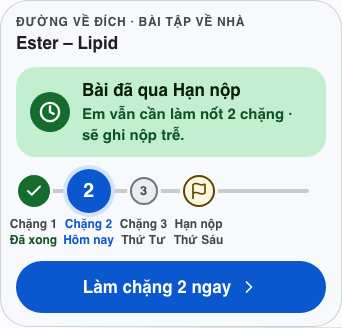
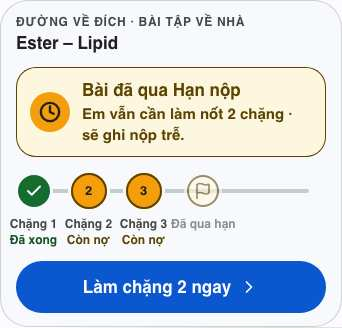
Nộp trễ ở máy em (Điều 4=B): thẻ 'Đã qua Hạn nộp' bấm được + 'em vẫn cần làm nốt N chặng · sẽ ghi nộp trễ' khi máy chủ báo quaHan (giữ 'nhờ Thầy gia hạn' khi máy chủ còn khoá); 2 sửa của Boss ở trạng thái quá hạn: khung CAM (không xanh lá), cờ 'Đã qua hạn' mờ, chặng chưa xong 'Còn nợ'. Test 22/22, đ

Changed region(s): [[0.0292, 0.1829, 0.9649, 0.7622], [0.5263, 0.5183, 0.6433, 0.6402]]

diff --git a/tests/ve-dich-the-2109.test.tsx b/tests/ve-dich-the-2109.test.tsx
@@ -211,6 +211,14 @@ describe('TheVeDich — bốn trạng thái + qua hạn', () => {
     fireEvent.click(screen.getByRole('button', { name: /Làm chặng 2 ngay/ }))
     expect(onLam).toHaveBeenCalledTimes(1)
     expect(container.textContent).not.toMatch(/nhờ Thầy gia hạn|lười|muộn rồi/i)
+    // Boss soát ảnh vd-tre: khung CAM (không xanh lá), cờ "Đã qua hạn" mờ, chặng chưa xong = "Còn nợ" (không "Hôm nay"/thứ)
+    expect(the.querySelector('[data-vung="nop-tre"]')!.classList.contains('vd-mung--luu-y')).toBe(true)
+    expect(the.querySelector('.vd-moc--dich')!.classList.contains('vd-moc--het')).toBe(true)
+    expect([...the.querySelectorAll('.vd-moc__ten')].pop()!.textContent).toBe('Đã qua hạn')
+    expect([...the.querySelectorAll('.vd-moc__tt')].map((m) => m.textContent)).toEqual(['Đã xong', 'Còn nợ', 'Còn nợ', ''])
+    expect([...the.querySelectorAll('.vd-moc')].map((m) => m.getAttribute('aria-label'))).toEqual(['Chặng 1: đã xong', 'Chặng 2: còn nợ', 'Chặng 3: còn nợ', 'Đích: đã qua hạn nộp'])
+    expect(container.textContent).not.toMatch(/Hôm nay|Thứ Sáu|Hạn nộp 12/)
+    expect(doc('src/components/bang-nhiem-vu/ve-dich.css')).toMatch(/\.vd-mung--luu-y \{[^}]*canh-bao-nen/)
   })
 
   it('nhiều bài: bài KHẨN NHẤT (hạn sớm nhất) là thẻ đầy đủ; bài khác một dòng (tối đa 3); chỉ nợ ôn (không bài) ⇒ chỉ khối ngày trước', () => {
@@ -289,5 +297,51 @@ describe('khoá nguồn', () => {
       expect(s, p).not.toMatch(/thần thú|khiên|Võ đài|lười/i)
     }
     expect(doc('src/components/bang-nhiem-vu/BangNhiemVu.tsx')).toMatch(/\{!laPh && duLieu\.veDich && !dangTai && \(/)
+  })
+})
+
+describe('NỘP TRỄ ở máy em (Điều 4 = B): thẻ "Đã qua Hạn nộp" không còn chặn khi máy chủ cho nộp', () => {
+  const NOW_T = Date.parse('2026-09-26T10:00:00+07:00')
+  const keHoachTre = (veDich: unknown): KeHoachNgayMayChu =>
+    ({
+      ok: true,
+      nganSach: { mucTieuCau: 12, toiThieuCau: 6, vanTocGiay: 78, vanTocNguon: 'do', ghiChuVanToc: '' },
+      viec: [],
+      canhBao: [],
+      quaHan: [{ loai: 'btvn', ma: 'B1', hanNop: '2026-09-25T05:00:00Z', conLai: 24 }],
+      tienBo: { daLamCau: 0, lenBac: 0, conThieu: 6 },
+      chuoiDat: 0,
+      lanNghi: false,
+      capNhatLuc: new Date(NOW_T - 60_000).toISOString(),
+      ...(veDich === undefined ? {} : { veDich, no: { theoNgay: [] } }),
+    }) as KeHoachNgayMayChu
+  const phu = { dsBtvn: [{ maBtvn: 'B1', maCa: 'CA-1', tenBtvn: 'Ester – Lipid', soCau: 12 }], dsMomGiao: [] as any[] }
+  const baiTre = (chang_: string[], quaHan = true) => ({ ...nhan(BAI_MOT_NO), quaHan, chang: chang(chang_, ['2026-09-20', '2026-09-22', '2026-09-23'].slice(0, chang_.length)), toiNay: null })
+
+  it('máy chủ có veDich báo quaHan ⇒ "Bài đã qua Hạn nộp · em vẫn cần làm nốt 2 chặng · sẽ ghi nộp trễ", BẤM ĐƯỢC (mo_btvn "Làm nốt bài"), không "nhờ Thầy gia hạn"', () => {
+    const d = tuKeHoachNgay(keHoachTre([baiTre(['xong', 'hom_nay', 'sap_toi'])]), NOW_T, phu)
+    expect(d.quaHan[0]).toMatchObject({ loai: 'btvn', chu: 'Bài đã qua Hạn nộp · em vẫn cần làm nốt 2 chặng · sẽ ghi nộp trễ' })
+    expect(d.quaHan[0]!.hanhDong).toMatchObject({ loai: 'mo_btvn', nhanNut: 'Làm nốt bài' })
+    expect(JSON.stringify(d.quaHan[0])).not.toMatch(/nhờ Thầy gia hạn/)
+    const onHanhDong = vi.fn()
+    render(<BangNhiemVu vaiTro="hocsinh" hoTen="Minh" now={NOW_T} duLieu={{ ...d, thanThu: { kieu: 'chua_biet' } } as any} onHanhDong={onHanhDong} taiVinhDanh={async () => null} />)
+    const nut = screen.getAllByRole('button').find((b) => /Đã qua Hạn nộp|qua Hạn nộp/.test(b.getAttribute('aria-label') || ''))!
+    expect(nut.getAttribute('aria-label')).toContain('sẽ ghi nộp trễ')
+    fireEvent.click(nut)
+    expect(onHanhDong).toHaveBeenCalledTimes(1)
+    expect(onHanhDong.mock.calls[0]![0]).toMatchObject({ loai: 'mo_btvn' })
+  })
+  it('chặng còn lại 0 ⇒ câu "em vẫn làm và nộp được"; máy chủ CŨ (không veDich) hoặc bài KHÔNG quaHan hoặc mã khác ⇒ GIỮ chữ cũ "nhờ Thầy gia hạn" và không nút', () => {
+    expect(tuKeHoachNgay(keHoachTre([baiTre(['xong', 'xong'])]), NOW_T, phu).quaHan[0]!.chu).toBe('Bài đã qua Hạn nộp · em vẫn làm và nộp được · sẽ ghi nộp trễ')
+    for (const kh of [keHoachTre(undefined), keHoachTre([baiTre(['xong', 'hom_nay'], false)]), keHoachTre([{ ...baiTre(['xong', 'hom_nay']), maBtvn: 'B9' }])]) {
+      const q = tuKeHoachNgay(kh, NOW_T, phu).quaHan[0]!
+      expect(q.chu).toBe('Đã qua Hạn nộp — nhờ Thầy gia hạn')
+      expect(q.hanhDong).toBeUndefined()
+    }
+  })
+  it('máy em KHÔNG tự chặn theo hạn: nguồn nộp chặng chỉ dịch lời của MÁY CHỦ (qua_han ⇒ câu chung), không so hạn với giờ máy', () => {
+    const s = doc('src/lib/btvn-nop-chang-em.ts')
+    expect(s).toMatch(/if \(ket\.lyDo === 'qua_han'\) return 'Bài đã quá hạn nộp\.'/)
+    expect(s).not.toMatch(/hanNop|Date\.now\(\)\s*[<>]/)
   })
 })

diff --git a/src/components/bang-nhiem-vu/TheVeDich.tsx b/src/components/bang-nhiem-vu/TheVeDich.tsx
@@ -24,6 +24,7 @@ export interface TheVeDichProps {
 const tenCang = (b: BaiVeDich) => b.chang.length
 
 function DuongChang({ b, now, vua }: { b: BaiVeDich; now: number; vua: boolean }) {
+  const qua = b.quaHan
   const n = b.chang.length
   if (n === 0) return null
   const soXong = b.chang.filter((c) => c.trangThai === 'xong').length
@@ -37,9 +38,10 @@ function DuongChang({ b, now, vua }: { b: BaiVeDich; now: number; vua: boolean }
         {soNo > 0 && <i className="vd-day--no" style={{ left: `${xongPct.toFixed(1)}%`, width: `${(noPct - (soXong > 1 ? 0 : 0)).toFixed(1)}%` }} />}
       </li>
       {b.chang.map((c, i) => {
-        const cls = c.trangThai === 'xong' ? 'xong' : c.trangThai === 'no' ? 'no' : c.trangThai === 'hom_nay' ? 'nay' : 'toi'
-        const tt = c.trangThai === 'xong' ? (vua && i === soXong - 1 ? 'Vừa xong' : 'Đã xong') : c.trangThai === 'hom_nay' ? 'Hôm nay' : thuCuaNgay(c.ngay)
-        const ten = c.trangThai === 'xong' ? 'đã xong' : c.trangThai === 'no' ? `còn lại từ ${thuCuaNgay(c.ngay)}` : c.trangThai === 'hom_nay' ? 'của hôm nay' : `sắp tới, ${thuCuaNgay(c.ngay)}`
+        // QUÁ HẠN: hạn đã qua thì không còn lịch theo thứ — mọi chặng chưa xong đều là "còn nợ".
+        const cls = c.trangThai === 'xong' ? 'xong' : qua || c.trangThai === 'no' ? 'no' : c.trangThai === 'hom_nay' ? 'nay' : 'toi'
+        const tt = c.trangThai === 'xong' ? (vua && i === soXong - 1 ? 'Vừa xong' : 'Đã xong') : qua ? 'Còn nợ' : c.trangThai === 'hom_nay' ? 'Hôm nay' : thuCuaNgay(c.ngay)
+        const ten = c.trangThai === 'xong' ? 'đã xong' : qua ? 'còn nợ' : c.trangThai === 'no' ? `còn lại từ ${thuCuaNgay(c.ngay)}` : c.trangThai === 'hom_nay' ? 'của hôm nay' : `sắp tới, ${thuCuaNgay(c.ngay)}`
         return (
           <li key={c.chiSo} className={`vd-moc vd-moc--${cls}${vua && c.trangThai === 'xong' && i === soXong - 1 ? ' vd-moc--vua' : ''}`} aria-label={`Chặng ${c.chiSo + 1}: ${ten}`}>
             <span className="vd-moc__o" aria-hidden="true">
@@ -54,17 +56,17 @@ function DuongChang({ b, now, vua }: { b: BaiVeDich; now: number; vua: boolean }
           </li>
         )
       })}
-      <li className="vd-moc vd-moc--dich" aria-label={`Đích: Hạn nộp ${chuHanNop(b.hanNop).split(' · ')[0]} ${nhanCoHan(b.hanNop, now)}`}>
+      <li className={`vd-moc vd-moc--dich${qua ? ' vd-moc--het' : ''}`} aria-label={qua ? 'Đích: đã qua hạn nộp' : `Đích: Hạn nộp ${chuHanNop(b.hanNop).split(' · ')[0]} ${nhanCoHan(b.hanNop, now)}`}>
         <span className="vd-moc__o" aria-hidden="true">
           <span className="vd-moc__tron">
             <Flag className="vd-i" aria-hidden="true" />
           </span>
         </span>
         <span className="vd-moc__ten" aria-hidden="true">
-          Hạn nộp
+          {qua ? 'Đã qua hạn' : 'Hạn nộp'}
         </span>
         <span className="vd-moc__tt vd-so" aria-hidden="true">
-          {nhanCoHan(b.hanNop, now)}
+          {qua ? '' : nhanCoHan(b.hanNop, now)}
         </span>
       </li>
     </ol>
@@ -131,7 +133,7 @@ function TheMotBai({ b, no, now, onLam, soViecConLai, ngayVuaTra }: { b: BaiVeDi
           <p className="vd-dau__nhan">Đường về đích · Bài tập về nhà</p>
           <h2 id={`vd-t-${b.maBtvn}`}>{b.ten}</h2>
         </div>
-        <div className="vd-mung" role="status" data-vung="nop-tre">
+        <div className="vd-mung vd-mung--luu-y" role="status" data-vung="nop-tre">
           <i aria-hidden="true">
             <Clock className="vd-i" />
           </i>

diff --git a/src/lib/nhiem-vu-adapter.ts b/src/lib/nhiem-vu-adapter.ts
@@ -185,7 +185,7 @@ export interface TheQuaHan {
   loai: 'btvn' | 'mom'
   tieuDe: string
   chu: string
-  /** Chỉ bài Mẹ giao mới mở được (nộp phần đã lưu); BTVN quá hạn cần Thầy gia hạn. */
+  /** Bài Mẹ giao mở được (nộp phần đã lưu); BTVN quá hạn: mở được KHI máy chủ cho nộp trễ (`veDich[].quaHan`), còn khoá thì cần Thầy gia hạn. */
   hanhDong?: HanhDongNhiemVu
 }
 
@@ -652,12 +652,26 @@ export function tuKeHoachNgay(keHoach: KeHoachNgayMayChu, now: number, phu: Nguo
     bai: baiTonCu,
   }
 
+  const veDichView = docVeDich(keHoach)
   const quaHan: TheQuaHan[] = (keHoach.quaHan || []).map((q) => {
     if (q.loai === 'mom') {
       const bai = momTheoId(q.ma)
       return { id: `qua_han:mom:${q.ma}`, loai: 'mom', tieuDe: bai?.tieuDe || 'Bài gia đình giao', chu: 'Đã hết giờ — mở để nộp phần đã lưu', hanhDong: { loai: 'mo_mom', payload: bai ? { id: bai.id, bai } : { id: q.ma }, nhanNut: 'Mở để nộp' } }
     }
     const bt = btvnTheoMa(q.ma)
+    // NỘP TRỄ (Điều 4 = B, thầy chốt 21/09): máy chủ báo bài qua hạn mà em VẪN làm và nộp được (`veDich[].quaHan`) ⇒ KHÔNG chặn ở máy em: thẻ mở được, chữ "sẽ ghi nộp trễ".
+    // Máy chủ cũ / bài máy chủ vẫn khoá (không có trong `veDich`) ⇒ giữ nguyên chữ cũ "nhờ Thầy gia hạn", không nút.
+    const baiTre = veDichView?.bai.find((b) => b.quaHan && (b.maBtvn === q.ma || (bt && b.maBtvn === bt.maBtvn)))
+    if (baiTre) {
+      const conLai = baiTre.chang.filter((c) => c.trangThai !== 'xong').length
+      return {
+        id: `qua_han:btvn:${q.ma}`,
+        loai: 'btvn',
+        tieuDe: tenBaiTapVeNha(bt),
+        chu: conLai > 0 ? `Bài đã qua Hạn nộp · em vẫn cần làm nốt ${conLai} chặng · sẽ ghi nộp trễ` : 'Bài đã qua Hạn nộp · em vẫn làm và nộp được · sẽ ghi nộp trễ',
+        hanhDong: bt ? { loai: 'mo_btvn', payload: { bt }, nhanNut: 'Làm nốt bài' } : undefined,
+      }
+    }
     return { id: `qua_han:btvn:${q.ma}`, loai: 'btvn', tieuDe: tenBaiTapVeNha(bt), chu: 'Đã qua Hạn nộp — nhờ Thầy gia hạn' }
   })
 
@@ -703,7 +717,7 @@ export function tuKeHoachNgay(keHoach: KeHoachNgayMayChu, now: number, phu: Nguo
     capNhatLuc: keHoach.capNhatLuc,
     ghiChuCu: cu && keHoach.capNhatLuc ? `Kế hoạch lúc ${gioVietNam(keHoach.capNhatLuc)} — chưa cập nhật được, đang hiện bản cuối.` : undefined,
     ngayNghi: keHoach.lanNghi === true,
-    veDich: docVeDich(keHoach),
+    veDich: veDichView,
     thanThu: docThanThu(keHoach.thanThu),
     tonCu,
     ...docExp(keHoach),

diff --git a/src/components/bang-nhiem-vu/ve-dich.css b/src/components/bang-nhiem-vu/ve-dich.css
@@ -169,4 +169,9 @@
 .vd-khac small { font-size: var(--bnv-cx-1); font-weight: 600; color: var(--vd-nhat); }
 .vd-nhom { display: grid; gap: 10px; }
 .vd { display: grid; gap: 12px; }
+/* QUÁ HẠN (nộp trễ): khung cảnh báo CAM (không xanh lá — không đọc như tin vui); cờ hạn mờ, "Đã qua hạn"; chặng chưa xong ghi "còn nợ". */
+.vd-mung--luu-y { background: var(--m3-canh-bao-nen); color: var(--m3-canh-bao-chu); box-shadow: inset 0 0 0 1px var(--m3-canh-bao-chu); }
+.vd-mung--luu-y > i { background: var(--vd-no); color: var(--vd-no-chu); }
+.vd-mung--luu-y p { color: var(--m3-canh-bao-chu); }
+.vd-moc--het { opacity: 0.6; }
 

diff --git a/SO-VIEC-GIAO-DIEN.md b/SO-VIEC-GIAO-DIEN.md
@@ -330,3 +330,8 @@ DỰNG ĐÚNG MẪU `docs/ban-ve-don-ve-dich-2109/` (CSS mẫu là gốc: `bang-
 NÓI THẬT: `lib/ve-dich-hien-thi.ts` đọc chặt theo dạng `server/src/ve-dich-d1.ts` (Code 4 viết giúp Code 3); MÁY EM KHÔNG TÍNH LẠI luật (số nợ, kế hoạch, giờ muộn nhất là của máy chủ); `veDich` KHÔNG lưu vào bản nhớ (số nợ cũ nói sai). `docVeDich`: vắng/không phải mảng ⇒ null; `veDich: []` mà còn nợ ôn ⇒ chỉ khối ngày trước.
 TEST: `tests/ve-dich-the-2109.test.tsx` 19/19; đột biến 14/14 (đọc 7, thẻ 7 — 2 mutant sống sót ban đầu ⇒ thêm test + sửa lỗi thật: <ul> hích rỗng khi chỉ nợ ôn; 0 sống). Kề cận xanh (bang-nhiem-vu, adapter, thi-dua, cho-an, canh-bao…). `tsc -b`, `check:mau` sạch. Chromium 390 sáng+tối × {nợ 1 chặng, nợ nhiều ngày, đúng nhịp, quá hạn, vừa trả nợ}: 0 chữ <4,5:1, 0 đích <48 (nút 52/56), 0 tràn, 0 lỗi; thẻ nợ 415 px ≤ 420; ảnh ≤ 40 KB ở `docs/anh-ve-dich-2109/`.
 CÒN (P4b, chờ Worker W3 đẩy): chữ + cho phép nộp SAU hạn ở máy em (btvn-nop-chang-em.ts:42, nhãn "nhờ Thầy gia hạn", DanhSachQuaHan) — theo `quaHan`/`nopTre` của `/btvn/cua-em` (Code 3).
+
+## 21/09 · NỘP TRỄ Ở MÁY EM + 2 SỬA CỦA BOSS Ở TRẠNG THÁI QUÁ HẠN — Code 2 (P4)
+NỘP TRỄ (Điều 4 = B; Code 3 báo `/btvn/cua-em` thêm `quaHan`+`nopTre`, không còn `lyDo:'qua_han'` cho lần nộp đầu): thẻ "Đã qua Hạn nộp" của Bảng nhiệm vụ (adapter, `quaHan[]` loại btvn) KHÔNG còn là ngõ cụt: khi `veDich[]` có đúng bài ấy với `quaHan:true` ⇒ chữ "Bài đã qua Hạn nộp · em vẫn cần làm nốt N chặng · sẽ ghi nộp trễ" (N = chặng chưa xong; 0 ⇒ "em vẫn làm và nộp được · sẽ ghi nộp trễ") + BẤM ĐƯỢC (`mo_btvn` "Làm nốt bài"). Máy chủ cũ / bài không nằm trong veDich (máy chủ vẫn khoá: nộp LẠI, thử sức thêm, thu hồi) ⇒ GIỮ chữ cũ "nhờ Thầy gia hạn", không nút. Máy em KHÔNG tự so hạn với giờ máy: `btvn-nop-chang-em.ts` chỉ dịch lời máy chủ (`qua_han` ⇒ "Bài đã quá hạn nộp." — test khoá không có so sánh giờ).
+2 SỬA CỦA BOSS (ảnh vd-tre): (a) khung "Bài đã qua Hạn nộp…" đổi từ xanh lá sang tông CẢNH BÁO CAM (`vd-mung--luu-y`, cùng bộ màu trạng thái nợ nhiều ngày; biểu tượng đồng hồ giữ); (b) khi `quaHan`: cờ cuối đường ghi "Đã qua hạn" + mờ (`vd-moc--het`), mọi chặng chưa xong ghi "Còn nợ" (không "Hôm nay"/thứ — hạn đã qua thì không còn lịch theo thứ), aria-label tương ứng.
+TEST: thêm 3 khối vào `tests/ve-dich-the-2109.test.tsx` (nay 22/22): thẻ nộp trễ bấm được + đúng chữ; giữ chữ cũ với máy chủ cũ/bài không quaHan/mã khác; máy em không so hạn; ảnh quá hạn (cam, cờ mờ, còn nợ). Đột biến 7/7 (0 sống). Kề cận nhiem-vu-adapter-1909 + bang-nhiem-vu-1909 143 xanh. `tsc -b`, `check:mau` sạch. Chromium 390 sáng+tối trạng thái quá hạn: 0 lỗi (ảnh cập nhật docs/anh-ve-dich-2109/vd-tre-*).
